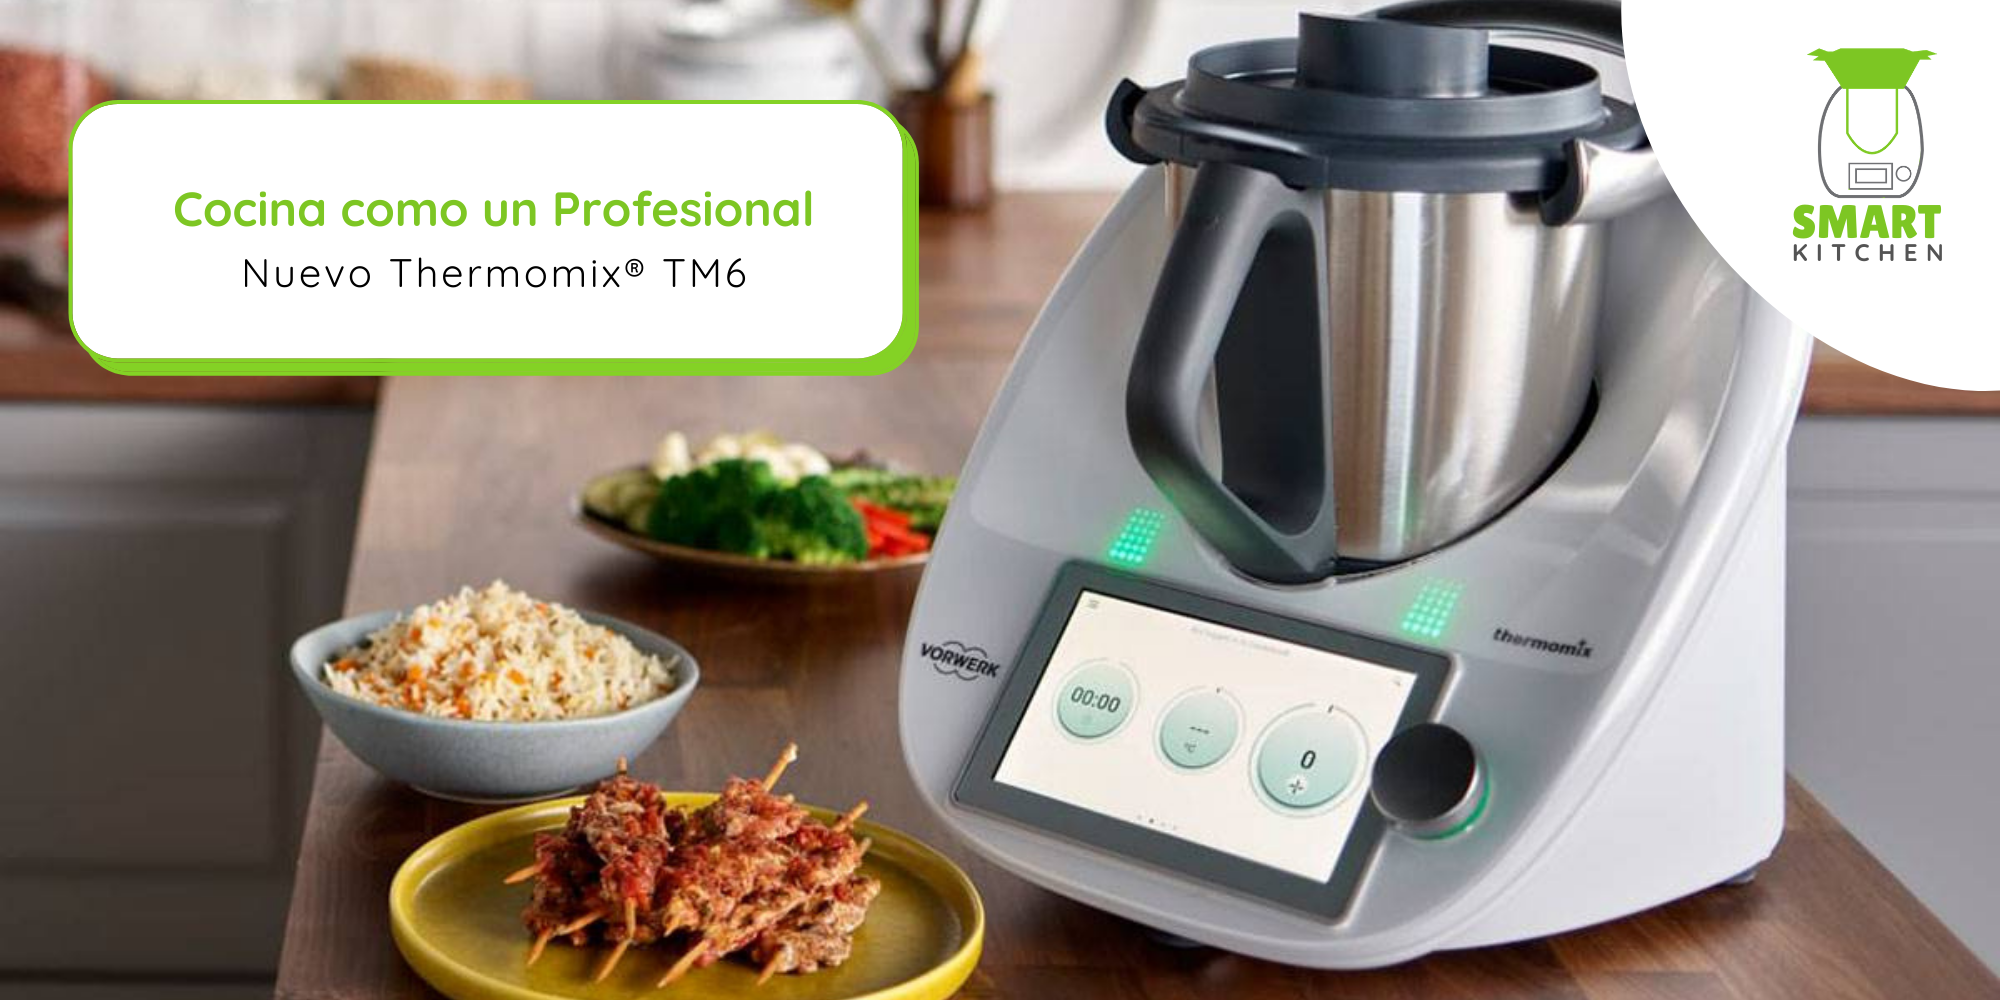
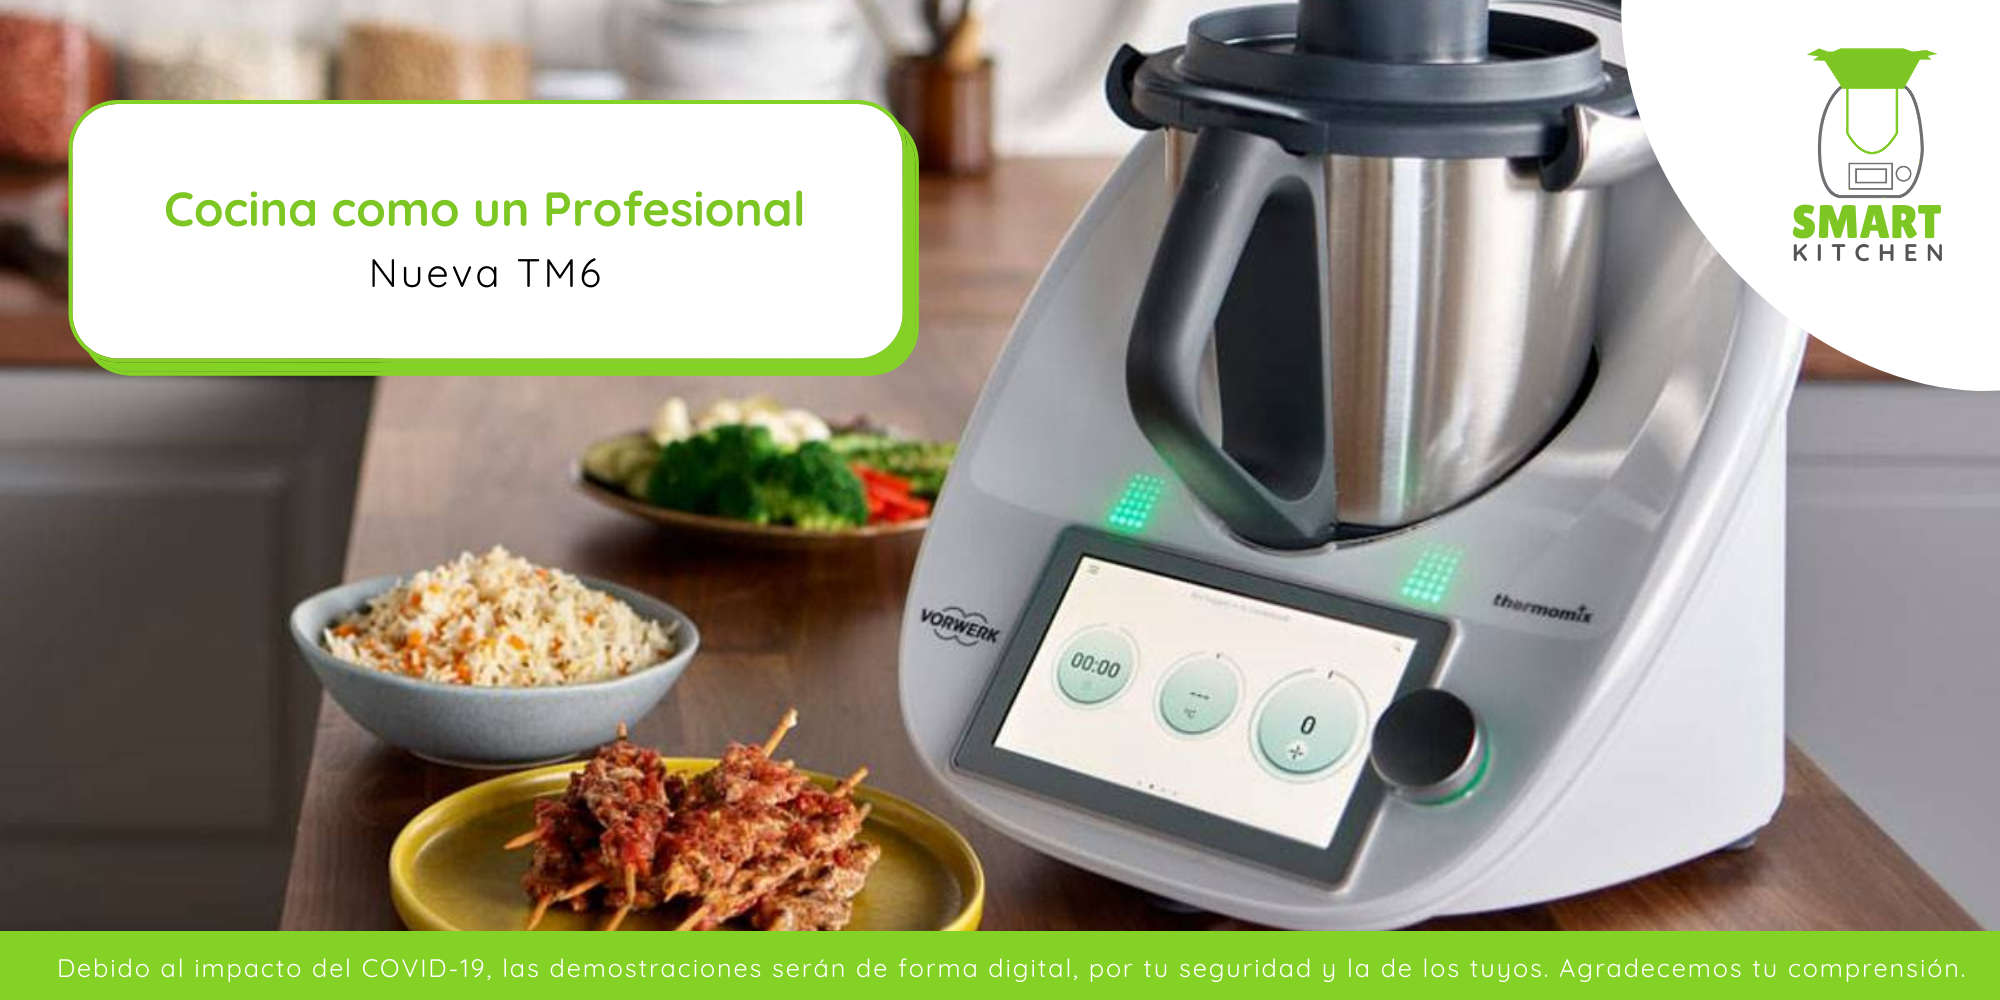
updates 05/11/2020

diff --git a/public/css/app2.css b/public/css/app2.css
@@ -18,3 +18,31 @@
 .demotitle{
   color:#7DC623;
 }
+
+.graytitle{
+  color:#6F7073;
+}
+
+.circles{
+	background-position: center;
+	background-size: contain;
+	background-repeat: no-repeat;
+}
+
+.banner{
+  background-position: bottom;
+  background-size: cover;
+  background-repeat: no-repeat;
+}
+
+.white{
+    background-image: -moz-linear-gradient(left, rgba(255, 255, 255, 1),rgba(255, 255, 255, 1),rgba(255, 255, 255, 0));
+    background-image: -ms-linear-gradient(left, rgba(255, 255, 255, 1),rgba(255, 255, 255, 1),rgba(255, 255, 255, 0));
+    background-image: -webkit-gradient(linear, 0 0, 100% 0, from(rgba(255, 255, 255, 1)), to(rgba(255, 255, 255, 0)));
+    background-image: -webkit-linear-gradient(left, rgba(255, 255, 255, 1),rgba(255, 255, 255, 1),rgba(255, 255, 255, 0));
+    background-image: -o-linear-gradient(left, rgba(255, 255, 255, 1),rgba(255, 255, 255, 1),rgba(255, 255, 255, 0));
+    background-image: linear-gradient(left, rgba(255, 255, 255, 1),rgba(255, 255, 255, 1),rgba(255, 255, 255, 0));
+    background-repeat: repeat-x;
+    filter: progid:DXImageTransform.Microsoft.gradient(startColorstr='rgba(255, 255, 255, 1)', endColorstr='rgba(255, 255, 255, 0)', GradientType=1);
+    padding: 2rem 0;
+}

diff --git a/resources/views/welcome.blade.php b/resources/views/welcome.blade.php
@@ -11,11 +11,7 @@
     <div class="row justify-content-center">
       <div class="col-12 text-center">
         <p>¡Conviértete en un chef profesional!</p>
-        <p class=".d-none .d-md-block .d-lg-block">Elaborar extraordinarias recetas con el TM6 ahora es más fácil y rápido que nunca.
-          Thermomix ® TM6 es un verdadero ayudante de cocina gracias a sus funcionalidades como la cocina a Alta Temperatura, Al Vacío, Cocción Lenta y Fermentación.
-          Con el acceso a Cookidoo ® desde la pantalla del Thermomix ® podrás disfrutar de más de 40.000 recetas internacionales que te permitirán crear increíbles platos caseros con el mínimo esfuerzo.
-          No pierdas más tiempo y cocina las más exquisitas recetas con el Thermomix ® TM6.
-          Agenda tu cita de demostración con un profesional.
+        <p class=".d-none .d-md-block .d-lg-block justify-content-center">Elaborar extraordinarias recetas con la TM6 ahora es más fácil y rápido que nunca. TM6 es un verdadero ayudante de cocina gracias a sus funcionalidades como la cocina a Alta Temperatura, Al Vacío, Cocción Lenta y Fermentación. Con el acceso a Cookidoo ® desde la pantalla de la TM6 podrás disfrutar de más de 40.000 recetas internacionales que te permitirán crear increíbles platos caseros con el mínimo esfuerzo. No pierdas más tiempo y cocina las más exquisitas recetas con el TM6 ®. Agenda tu cita de demostración con un profesional.
         </p>
         <a href="#demostracion" class="btn btn-success">Agendar demostración!</a>
       </div>
@@ -23,51 +19,85 @@
     <br>
     <div class="row justify-content-center">
       <div class="col-xl-4 col-lg-4 col-md-12 col-sm-12 col-xs-12 text-center">
-        <div class="imageseccion1" style="background-image:url('/img/banner1.png');"></div>
+        <div><i class="far fa-clock" style="font-size:8em;color:#7DC623;"></i></div>
         <h3>Tiempo</h3>
-        <span class="b">Cocinar con Thermomix ® TM6  te dejará más tiempo para que disfrutes de lo que más te gusta.</span>
+        <span class="b">Cocinar con TM6 ®  te dejará más tiempo para que disfrutes de lo que más te gusta.</span>
       </div>
       <div class="col-xl-4 col-lg-4 col-md-12 col-sm-12 col-xs-12 text-center">
-        <div class="imageseccion1" style="background-image:url('/img/banner1.png');"></div>
+        <div><i class="fas fa-cog" style="font-size:8em;color:#7DC623;"></i></div>
         <h3>Innovación</h3>
-        <span class="b">Thermomix ® TM6 cuenta con las mejores funciones y técnicas para hacer de tus recetas una gran experiencia culinaria.</span>
+        <span class="b">TM6 ® cuenta con las mejores funciones y técnicas para hacer de tus recetas una gran experiencia culinaria.</span>
       </div>
       <div class="col-xl-4 col-lg-4 col-md-12 col-sm-12 col-xs-12 text-center">
-        <div class="imageseccion1" style="background-image:url('/img/banner1.png');"></div>
+        <div><i class="far fa-lightbulb" style="font-size:8em;color:#7DC623;"></i></div>
         <h3>Creatividad</h3>
-        <span class="b">Echa a volar tu imaginación con las más de 30 funciones de Thermomix ®, como al vacío, cocción lenta o alta temperatura y más.</span>
+        <span class="b">Echa a volar tu imaginación con las más de 30 funciones de TM6 ®, como al vacío, cocción lenta o alta temperatura y más.</span>
       </div>
     </div>
 
-    <!-- tercer apartado -->
-    <div class="row justify-content-center">
+    <!-- facilidades de pago -->
+    <div class="row justify-content-center banner text-center" style="background-image:URL('img/facilidades_de_pago.png');">
       <div class="col-12" style="padding:0 !important;">
-        <img src="{{asset('img/compra.png')}}" style="width:100%;" alt="">
-      </div>
-      <div class="col-12 text-center" style="padding:15px;">
-        <a href="#demostracion" class="btn btn-success">Compra ahora!</a>
+        <div class="row" style="max-width:100%">
+          <div class="col-8 justify-content-center white">
+            <div class="" style="max-width:50%;padding-left:10%;">
+              <span class="graytitle font-weight-bold" style="font-size:1em;">FACILIDADES DE PAGO</span><br>
+              <span class="demotitle font-weight-bold" style="font-size:.7em;">CONTADO TRANSFERENCIA BANCARIA, TARJETA DE DEBITO O CRÉDITO EN UN SOLO PAGO</span><br>
+              <span class="graytitle font-weight-bold" style="font-size:.7em;">CONTADO UTILIZANDO VARIAS FORMAS DE PAGO HASTA CUBIRI EL MONTO TOTAL</span><br>
+              <span class="demotitle font-weight-bold" style="font-size:.7em;">FINANCIADO CON TASA DE INTERÉS PREFERENCIAL UTILIZANDO UNA O VARIAS TARJETAS DE CRÉDITO</span><br>
+              <span class="graytitle font-weight-bold" style="font-size:.7em;">NO TIENES TARJETA BANCARIA NOSOTROS TRAMITAMOS TU DIGITAL CREDIT</span><br>
+              <span class="demotitle font-weight-bold" style="font-size:.7em;">PROGRAMA GANA TU TM6 ®</span><br>
+              <a href="#demostracion" class="btn btn-success">Compra ahora!</a>
+            </div>
+          </div>
+          <div class="col-4">
+          </div>
+        </div>
       </div>
     </div>
 
-    <!-- cuarto apartado -->
-    <div class="row justify-content-center">
+    <!-- meses sin intereses -->
+    <div class="row justify-content-center" style="padding-top: 15px;">
       <div class="col-12" style="padding:0 !important;">
-        <img src="{{asset('img/demostracion.png')}}" style="width:100%;" alt="">
+        <img src="{{asset('img/meses_sin_intereses.png')}}" style="width:100%;" alt="">
+      </div>
+    </div>
+
+
+    <!-- meses sin intereses -->
+
+    <div class="row" style="height:588px;padding-top:15px;">
+      <div class="col-12 banner" style="padding:0 !important;background-image:URL('img/demostracion.png');">
+        <div class="row" style="max-width:100%">
+          <div class="col-8"></div>
+            <div class="col-4">
+              <div class="justify-content-center text-center" style="padding-top:45%;">
+                <h1 class="whitecolor font-weight-bold">¡AGENDA TU DEMO!</h1>
+                <h3 class="whitecolor font-weight-bold" style="font-size:1em;">Y VIVE UNA EXPERIENCIA CULINARIA ÚNICA</h3>
+                <a href="#demostracion" class="btn btn-light">AGENDAR DEMOSTRACIÓN!</a>
+              </div>
+            </div>
+          </div>
+        </div>
       </div>
       <br>
-      <div class="col-6 text-center" id="demostracion" style="padding:15px;">
-        <h1 class="demotitle b">¡Conoce la Thermomix ® TM6!</h1>
-        <h3>AGENDA TU CITA DE DEMOSTRACIÓN</h3>
-          <input type="text" class="form-control" name="nombre" value="" placeholder="Nombre" required>
-          <br>
-          <input type="email" class="form-control" name="correo" value="" placeholder="Correo" required>
-          <br>
-          <input type="text" class="form-control" name="telefono" value="" placeholder="Teléfono" required>
+      <div class="row">
+        <div class="col-6 text-center" id="demostracion" style="padding:15px;">
+          <h1 class="demotitle b"><b>¡Conoce la TM6!</b></h1>
+          <h3><b>AGENDA TU CITA DE DEMOSTRACIÓN</b></h3>
+            <input type="text" class="form-control" name="nombre" id="nombre" value="" placeholder="Nombre" required>
+            <br>
+            <input type="email" class="form-control" name="correo" id="correo" value="" placeholder="Correo" required>
+            <br>
+            <input type="text" class="form-control" name="telefono" id="telefono" value="" placeholder="Teléfono" required>
+            <br>
+            <center>
+              <button type="button" name="button" class="btn btn-success" onclick="enviardemo();">Enviar</button>
+            </center>
+        </div>
+        <div class="col-6 circles" style="background-image:url('img/circles.png');">
+        </div>
       </div>
-      <div class="col-6">
-
-      </div>
-    </div>
 
     <!-- quinto apartado -->
     <div class="row justify-content-center">
@@ -87,9 +117,29 @@
         <br>
         <a href="#" class="whitecolor">Mapa de sitio</a>
       </div>
-      <div class="col-6"style="padding:0 !important;">
-
+      <div class="col-6 text-right"style="padding:0 !important;">
+        <a href="https://www.facebook.com/cucharadasdesabor/" target="_blank"><i class="fab fa-facebook-square" style="color:#ffff;font-size:3em;padding:15px;"></i></a>
+        <a href="https://www.instagram.com/cucharadas_de_sabor/?hl=es-la" target="_blank"><i class="fab fa-instagram" style="color:#ffff;font-size:3em;padding:15px;"></i></a>
       </div>
     </div>
 </div>
 @endsection
+
+<script type="text/javascript">
+function enviardemo(){
+  var nombre = $('#nombre').val();
+  var correo = $('#correo').val();
+  var telefono = $('#telefono').val();
+  $.ajax({
+    url: "enviardemo/",
+    method: "get",
+    dataType: "JSON",
+    data: { nombre:nombre,correo:correo,telefono:telefono},
+    success: function (response) {
+      swal(response.estatus,response.mensaje,response.icon)
+    },error: function (jqXHR, textStatus, errorThrown){
+      alert('Algo salio mal, volver a intetar.');
+    }
+  });
+}
+</script>

diff --git a/resources/views/layouts/app.blade.php b/resources/views/layouts/app.blade.php
@@ -7,7 +7,7 @@
     <!-- CSRF Token -->
     <meta name="csrf-token" content="{{ csrf_token() }}">
 
-    <title>Smart Kitchen</title>
+    <title>TM6</title>
     <link rel="icon" href="{{asset('/img/logo.png')}}">
     <!-- Scripts -->
     <script src="{{ asset('js/app.js') }}" defer></script>
@@ -19,13 +19,15 @@
     <!-- Styles -->
     <link href="{{ asset('css/app.css') }}" rel="stylesheet">
     <link href="{{ asset('css/app2.css') }}" rel="stylesheet">
+    <!-- SWAL -->
+    <script src="https://unpkg.com/sweetalert/dist/sweetalert.min.js"></script>
 </head>
 <body>
     <div id="app">
-        <nav class="navbar navbar-expand-md navbar-light bg-green shadow-sm greenbar">
+        <nav class="navbar navbar-expand-md navbar-light shadow-sm greenbar">
             <div class="container">
                 <a class="navbar-brand" href="{{ url('/') }}" style="padding:0px !important;">
-                    <img src="{{asset('img/logo_blanco.png')}}" style="max-width:3.5em;" alt="">
+                    <img src="{{asset('img/logo_blanco.png')}}" style="max-width:2.5em;" alt="">
                 </a>
                 <button class="navbar-toggler whitecolor" type="button" data-toggle="collapse" data-target="#navbarSupportedContent" aria-controls="navbarSupportedContent" aria-expanded="false" aria-label="{{ __('Toggle navigation') }}">
                     <i class="fas fa-bars whitecolor"></i>
@@ -40,13 +42,16 @@
                     <!-- Right Side Of Navbar -->
                     <ul class="navbar-nav ml-auto">
                       <li class="nav-item">
-                          <a class="nav-link whitecolor" href="#thermomix">{{ __('THERMOMIX') }}</a>
-                      </li>
-                      <li class="nav-item">
-                          <a class="nav-link whitecolor" href="#demostracion">{{ __('DEMOSTRACIÓN') }}</a>
+                          <a class="nav-link whitecolor" href="#thermomix">{{ __('TM6') }}</a>
                       </li>
                       <li class="nav-item">
                           <a class="nav-link whitecolor" href="#compra">{{ __('COMPRA') }}</a>
+                      </li>
+                      <li class="nav-item">
+                          <a class="nav-link whitecolor" href="#compra">{{ __('PROMOCIÓNES') }}</a>
+                      </li>
+                      <li class="nav-item">
+                          <a class="nav-link whitecolor" href="#demostracion">{{ __('DEMOSTRACIÓN') }}</a>
                       </li>
                       <li class="nav-item">
                           <a class="nav-link whitecolor" href="#contactanos">{{ __('CONTÁCTANOS') }}</a>

diff --git a/app/Http/Controllers/EnviarDemoController.php b/app/Http/Controllers/EnviarDemoController.php
@@ -1,0 +1,28 @@
+<?php
+
+namespace App\Http\Controllers;
+
+use Illuminate\Http\Request;
+use Illuminate\Support\Facades\Validator;
+use App\Mail\NuevaCita;
+use Mail;
+
+class EnviarDemoController extends Controller
+{
+    public function enviar(request $request){
+      $validator = Validator::make($request->all(), [
+  			'nombre' => 'required|string|min:3|max:191',
+  			'correo' => 'required|string|email|max:191',
+  			'telefono' => 'required|string|min:6|max:50',
+  		]);
+  		if ($validator->fails()) {
+  			return ["estatus"=>'Error',"mensaje"=>"Revisa tus datos en el formulario!","icon" => "error"];
+  		}//cierre de if validator
+      $nombre = $request['nombre'];
+      $correo = $request['correo'];
+      $telefono = $request['telefono'];
+      Mail::to('demo@cocinainteligente.mx')->send(new NuevaCita($nombre,$correo,$telefono));
+      return ["estatus"=>'Enviado!',"mensaje"=>"Tus datos fueron envíados correctamente!",'icon' => "success"];
+
+    }
+}

diff --git a/app/Mail/NuevaCita.php b/app/Mail/NuevaCita.php
@@ -1,0 +1,31 @@
+<?php
+
+namespace App\Mail;
+
+use Illuminate\Bus\Queueable;
+use Illuminate\Contracts\Queue\ShouldQueue;
+use Illuminate\Mail\Mailable;
+use Illuminate\Queue\SerializesModels;
+
+class NuevaCita extends Mailable
+{
+  use Queueable, SerializesModels;
+
+  public $nombre;
+  public $correo;
+  public $telefono;
+
+
+  public function __construct($nombre,$correo,$telefono)
+  {
+    $this->nombre = $nombre;
+    $this->correo = $correo;
+    $this->telefono = $telefono;
+  }
+
+
+  public function build()
+  {
+      return $this->view('mails.NuevaCita');
+  }
+}

diff --git a/resources/views/mails/NuevaCita.blade.php b/resources/views/mails/NuevaCita.blade.php
@@ -1,0 +1,20 @@
+<!doctype html>
+<html lang="es">
+
+<head>
+    <meta http-equiv="Content-Type" content="text/html; charset=utf-8" />
+    <meta name="viewport" content="width=device-width, user-scalable=no, initial-scale=1.0">
+    <title>Nueva cita</title>
+</head>
+
+<body>
+  <h1>Nueva cita desde página WEB</h1>
+  <p>Se registro una nueva cita desde la pagina web del TM6, debajo te dejamos los datos.</p>
+  <ul>
+    <li>Nombre:{{$nombre}}</li>
+    <li>Correo:{{$correo}}</li>
+    <li>Telefono:{{$telefono}}</li>
+  </ul>
+</body>
+
+</html>

diff --git a/routes/web.php b/routes/web.php
@@ -20,3 +20,4 @@ Route::get('/', function () {
 Auth::routes();
 
 Route::get('/home', [App\Http\Controllers\HomeController::class, 'index'])->name('home');
+Route::get('/enviardemo',[App\Http\Controllers\EnviarDemoController::class, 'enviar']);
